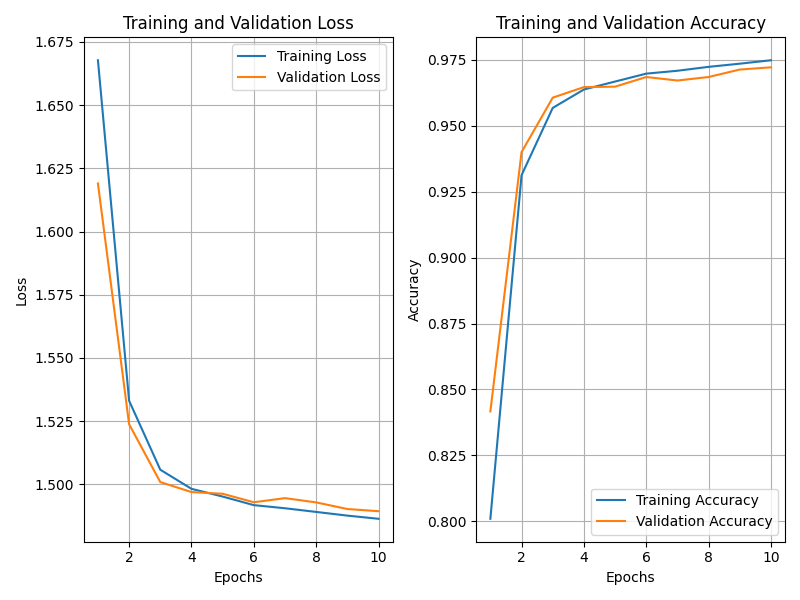
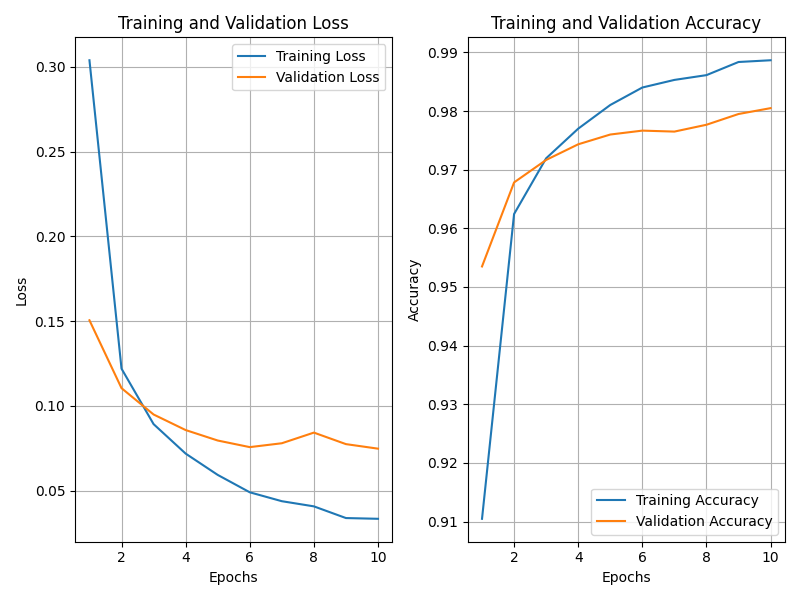
changes to model architecture
- removed softmax layer as pytorch cross-entropy lossfunction automatically applies softmax
- added batch normalisation to cnn model

diff --git a/model.py b/model.py
@@ -13,13 +13,13 @@ class ANN(nn.Module):
             nn.Linear(512,256),
             nn.ReLU(),
             nn.Linear(256,num_class),
-            nn.Softmax(dim=1) 
+            
         )
 
         # flatten layer to reshape into a 1D vector to pass into the network
         # two hidden layers to help with learning complex representations
         # use dropout layer to help with regularisation
-        # use softmax for multi-class classification (digits from 0-9)
+        # # No softmax layer as pytorch cross-entropy automatically applies it.
     
     def forward(self, x):
         return self.network(x)
@@ -29,9 +29,12 @@ class CNN(nn.Module):
         super(CNN, self).__init__()
         self.conv_layers = nn.Sequential(
             nn.Conv2d(1, 32, kernel_size=3, padding=1), 
+            nn.BatchNorm2d(32),
             nn.ReLU(),
             nn.MaxPool2d(2,2),
+
             nn.Conv2d(32, 64, kernel_size=3, padding=1),
+            nn.BatchNorm2d(64),
             nn.ReLU(),
             nn.MaxPool2d(2,2)
         )
@@ -42,7 +45,7 @@ class CNN(nn.Module):
             nn.ReLU(),
             nn.Dropout(0.3),
             nn.Linear(128, num_class),
-            nn.Softmax(dim=1)
+            # No softmax layer as pytorch cross-entropy automatically applies it.
         )
 
     def forward(self,x):
